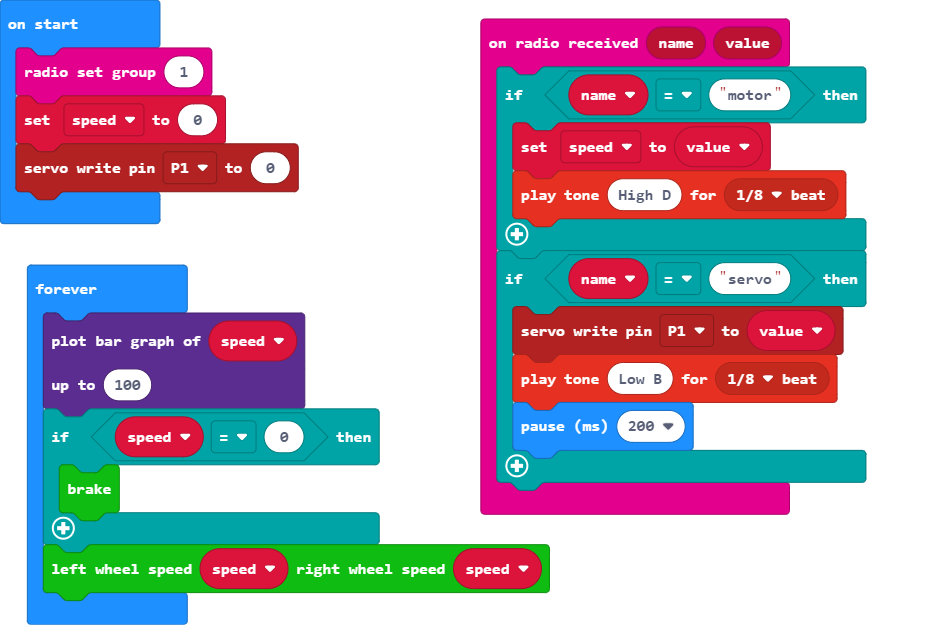
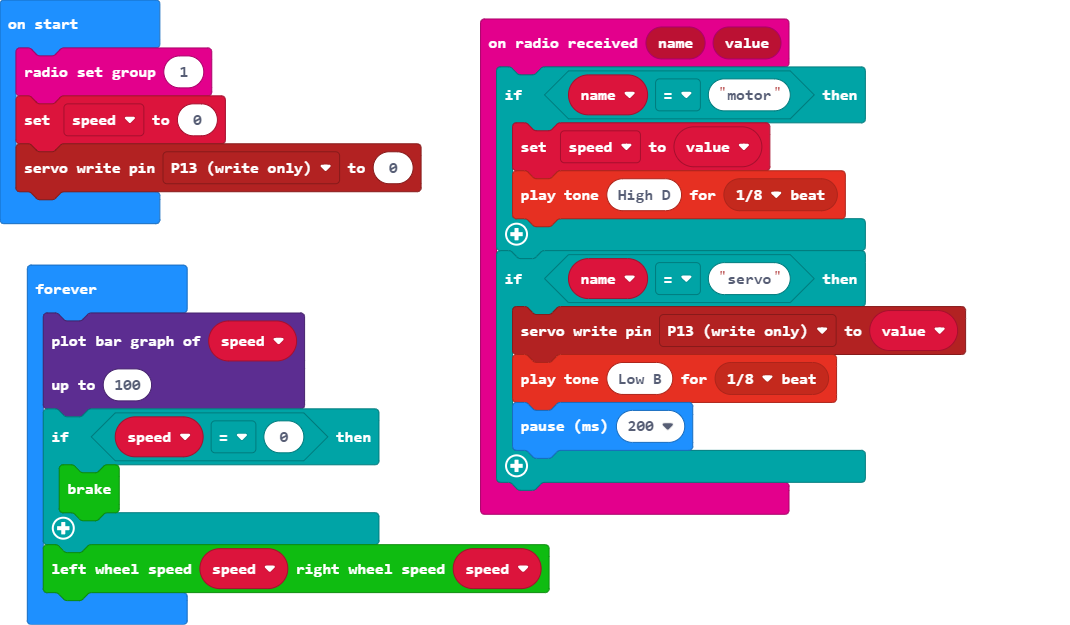
Update main.blocks, main.ts

diff --git a/main.ts b/main.ts
@@ -4,7 +4,7 @@ radio.onReceivedValue(function (name, value) {
         music.playTone(587, music.beat(BeatFraction.Eighth))
     }
     if (name == "servo") {
-        pins.servoWritePin(AnalogPin.P1, value)
+        pins.servoWritePin(AnalogPin.P13, value)
         music.playTone(247, music.beat(BeatFraction.Eighth))
         basic.pause(200)
     }
@@ -12,7 +12,7 @@ radio.onReceivedValue(function (name, value) {
 let speed = 0
 radio.setGroup(1)
 speed = 0
-pins.servoWritePin(AnalogPin.P1, 0)
+pins.servoWritePin(AnalogPin.P13, 0)
 basic.forever(function () {
     led.plotBarGraph(
     speed,
